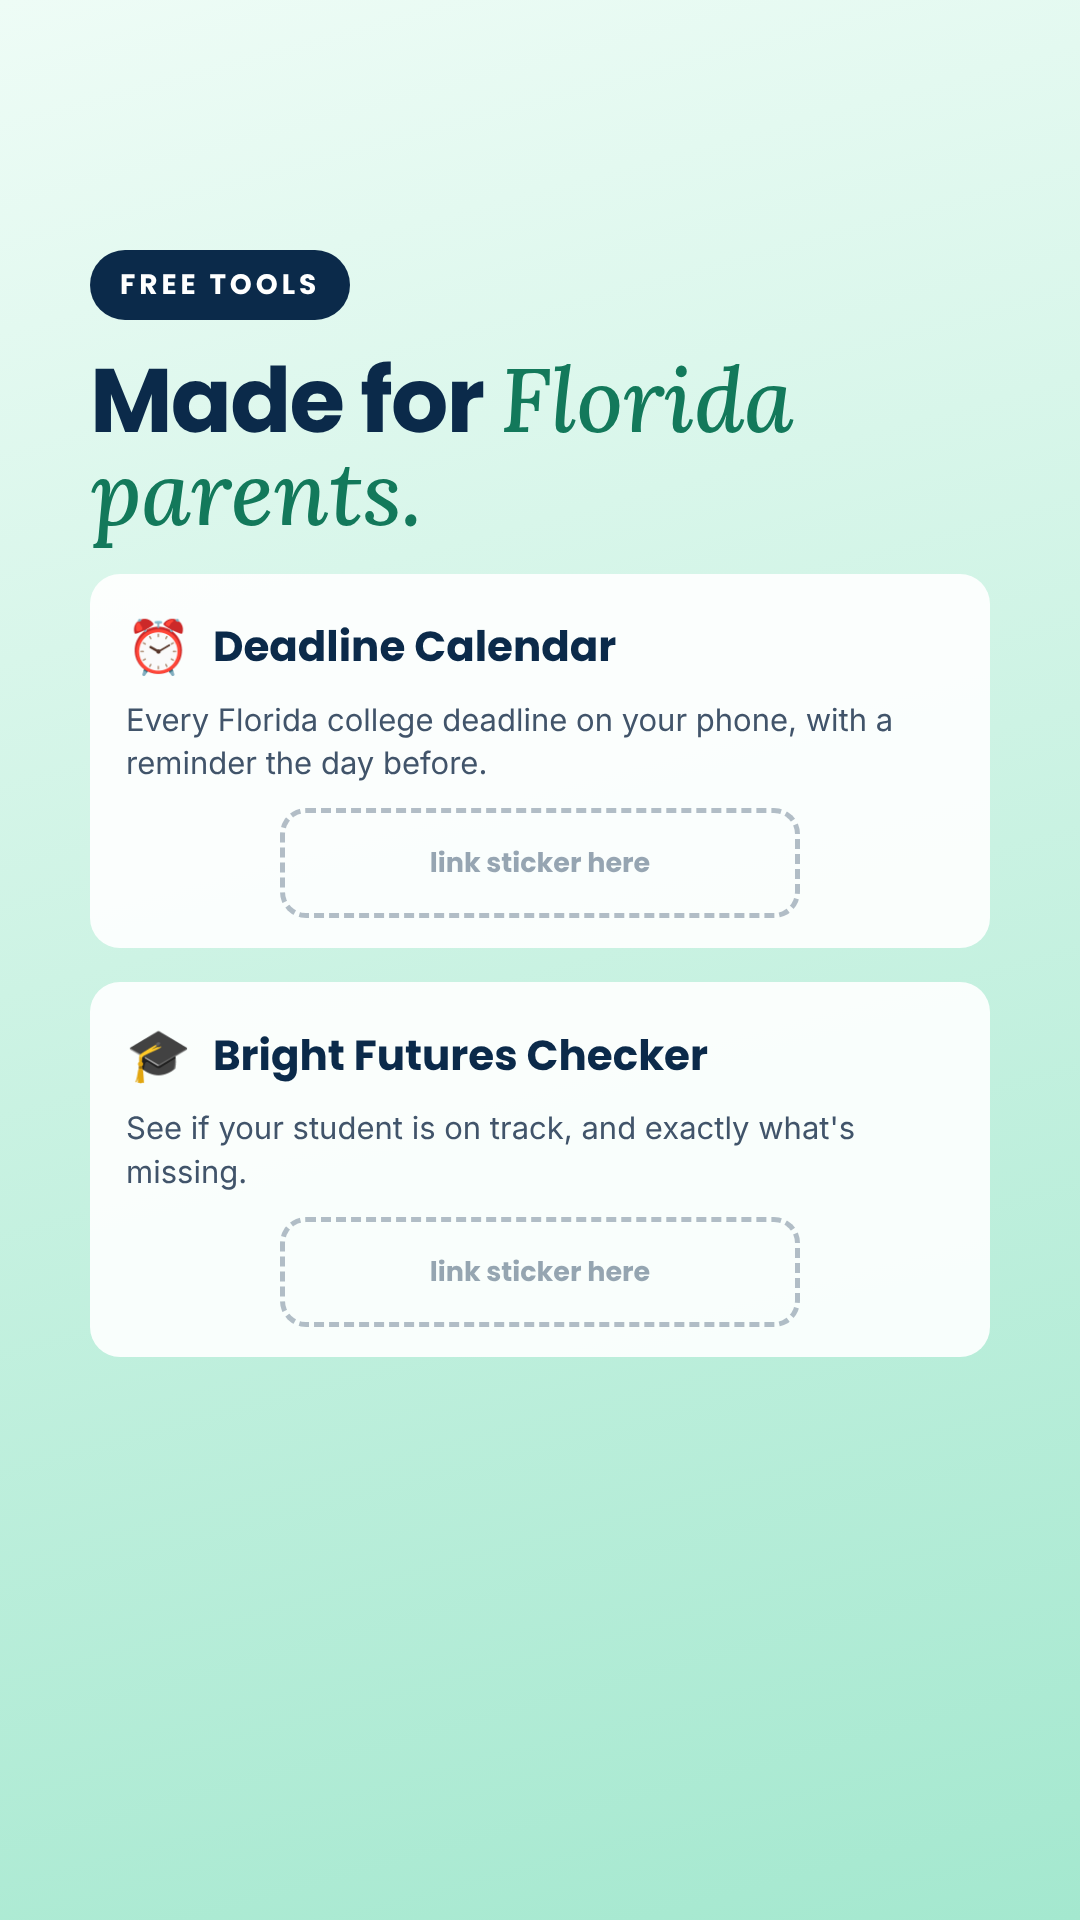
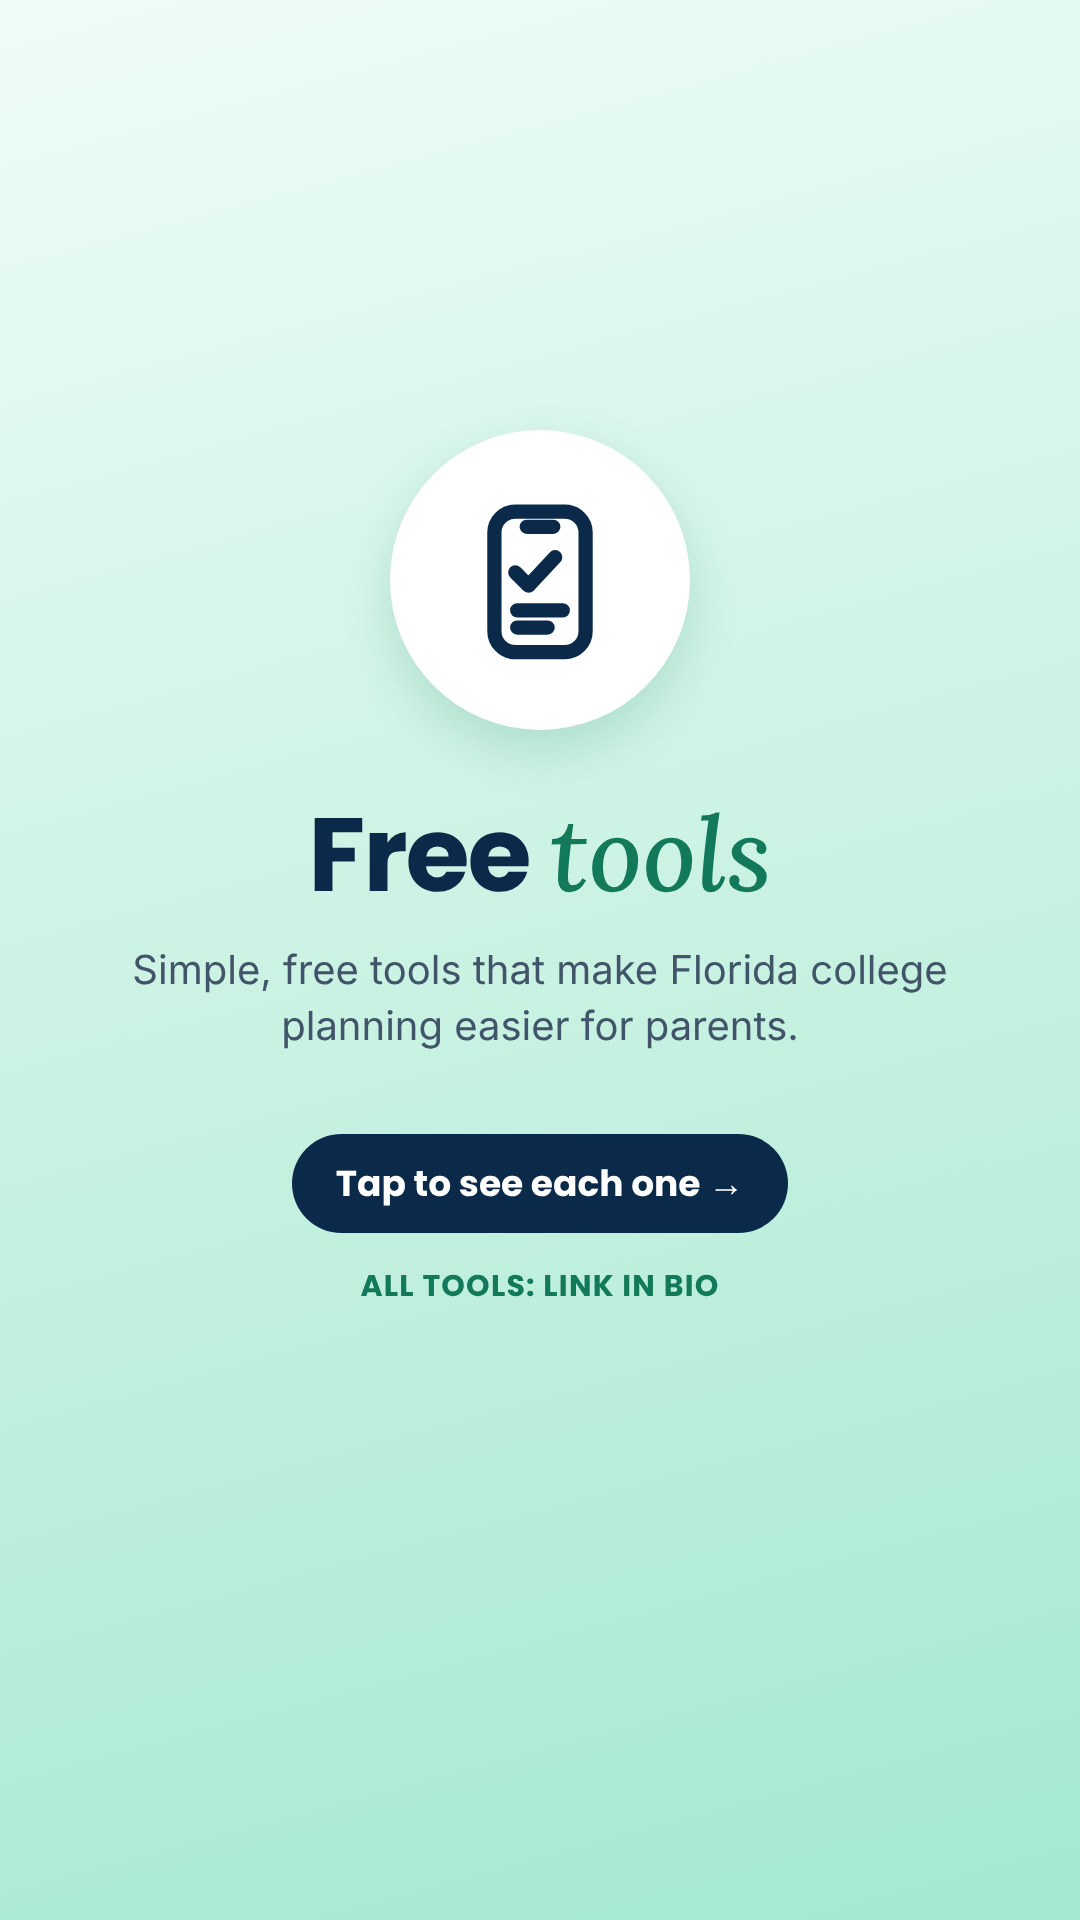
Evergreen Tools highlight intro slide
Claude-Session: https://claude.ai/code/session_01RskWi2mjitkicc34nMsJ3o

diff --git a/templates/highlight-covers.html b/templates/highlight-covers.html
@@ -95,28 +95,22 @@ svg.ic .w { fill:#FFFFFF; }
 </div>
 <div class="ns" id="ns1-clean" style="display:none"></div>
 
-<!-- tl-story: Tools Story to post manually with LINK stickers in the two dashed spots, then save to the Tools highlight -->
+<!-- tl-story: evergreen first slide for the Tools highlight (tool Stories get added after it) -->
 <style>
-.tsy { background:linear-gradient(165deg,#EEFCF6 0%,#CDF3E4 45%,#A4E8CF 100%); }
+.tsy { background:linear-gradient(165deg,#EEFCF6 0%,#CDF3E4 45%,#A4E8CF 100%); display:flex; flex-direction:column; align-items:center; text-align:center; padding:0 90px; }
+.tsy .icw { margin-top:430px; width:300px; height:300px; border-radius:50%; background:#fff; display:flex; align-items:center; justify-content:center; box-shadow:0 20px 50px rgba(19,121,91,.18); }
+.tsy .icw svg { width:190px; height:190px; fill:none; stroke:#0B2A4A; stroke-width:7.5; stroke-linecap:round; stroke-linejoin:round; }
+.tsy h1 { font-size:104px; margin-top:70px; }
 .tsy h1 em { color:#13795B; }
-.tcard { background:rgba(255,255,255,.9); border-radius:30px; padding:34px 36px 30px; margin-top:34px; }
-.tcard .hd { display:flex; gap:22px; align-items:center; font-family:'Poppins'; font-weight:700; font-size:42px; color:#0B2A4A; }
-.tcard .hd span { font-size:52px; }
-.tcard p { font-size:31px; line-height:1.4; color:#41546A; margin-top:12px; }
-.tcard .slot2 { margin:24px auto 0; width:520px; height:110px; border:5px dashed rgba(11,42,74,.3); border-radius:26px; display:flex; align-items:center; justify-content:center; font-family:'Poppins'; font-weight:600; font-size:27px; color:rgba(11,42,74,.42); }
+.tsy .sub { font-size:40px; line-height:1.4; color:#41546A; margin-top:34px; max-width:820px; }
+.tsy .tap { margin-top:80px; display:inline-flex; gap:16px; align-items:center; background:#0B2A4A; color:#fff; font-family:'Poppins'; font-weight:600; font-size:36px; border-radius:999px; padding:22px 44px; }
+.tsy .bio { margin-top:30px; font-family:'Poppins'; font-weight:600; font-size:30px; color:#13795B; letter-spacing:.04em; }
 </style>
-<div class="ns tsy" id="tl-story" style="padding-top:250px">
-  <span class="pill">Free tools</span>
-  <h1 style="font-size:90px">Made for <em>Florida parents.</em></h1>
-  <div class="tcard">
-    <div class="hd"><span>⏰</span>Deadline Calendar</div>
-    <p>Every Florida college deadline on your phone, with a reminder the day before.</p>
-    <div class="slot2">link sticker here</div>
-  </div>
-  <div class="tcard">
-    <div class="hd"><span>🎓</span>Bright Futures Checker</div>
-    <p>See if your student is on track, and exactly what's missing.</p>
-    <div class="slot2">link sticker here</div>
-  </div>
+<div class="ns tsy" id="tl-story">
+  <div class="icw"><svg viewBox="0 0 100 100"><rect x="26" y="14" width="48" height="74" rx="11"/><path d="M43 22 H57"/><path d="M37 46 l7 7 l14 -15"/><path d="M38 66 H62 M38 75 H54"/></svg></div>
+  <h1>Free <em>tools</em></h1>
+  <p class="sub">Simple, free tools that make Florida college planning easier for parents.</p>
+  <div class="tap">Tap to see each one →</div>
+  <div class="bio">ALL TOOLS: LINK IN BIO</div>
 </div>
 </body></html>
